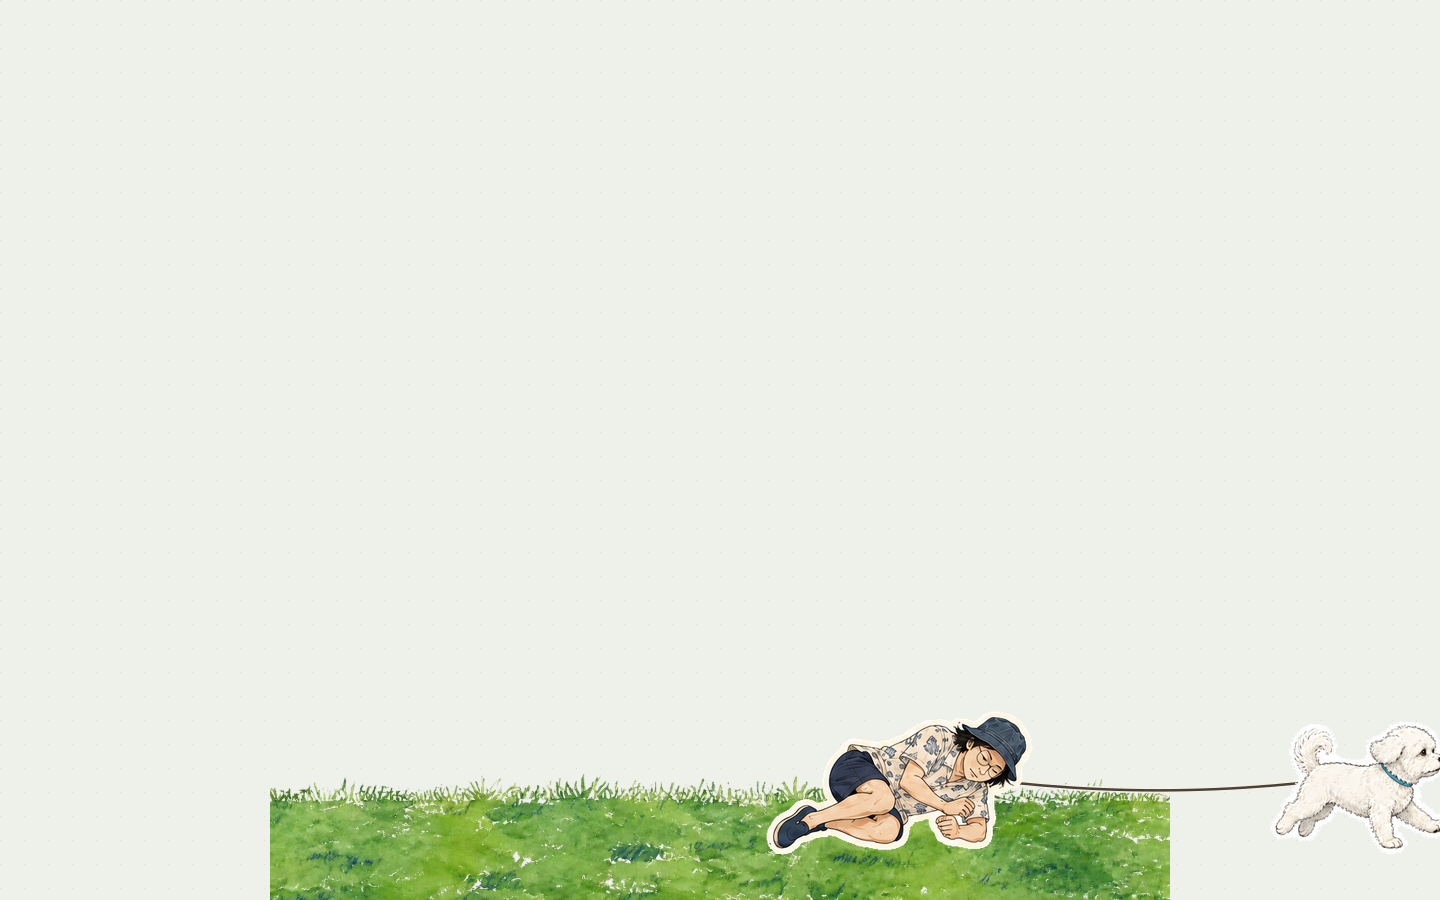
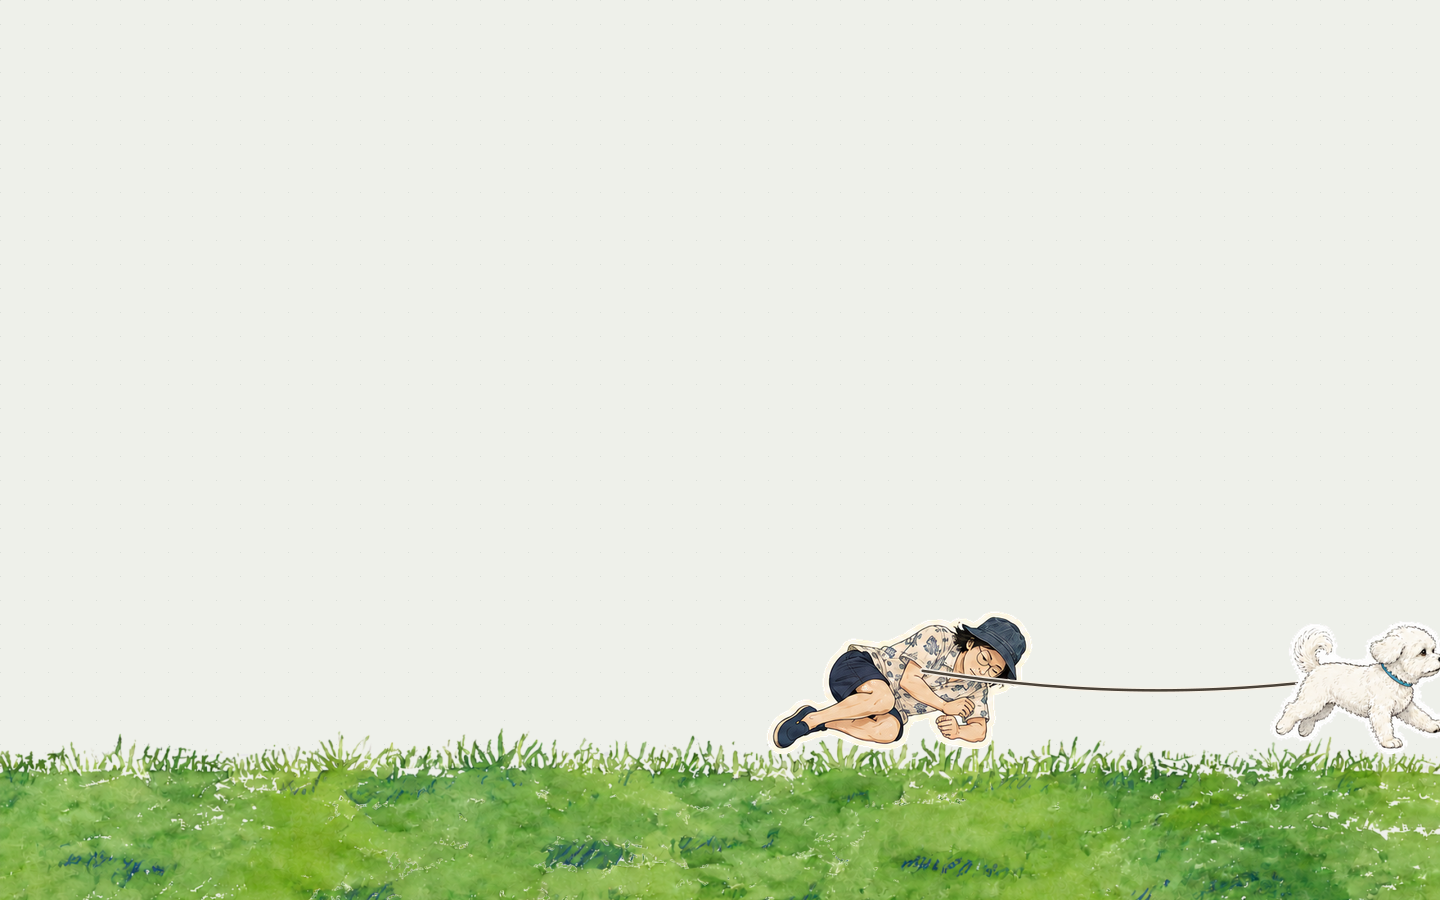
docs(intro): D-122 CP1 批准；球先于嘉乐出画；桌面草地全宽三边出血
- Motion Brief 双角色 approved: true，进入 CP2 Pilot（人物先行，每角色首轮最多 3 条）
- concept-contract 时间线新增 0.60-0.74 球滚出右界区间
- 桌面 K0-K4 以全宽草地重合成：顶边 y≈684（24% 视口高），地面线 y≈755，与移动端一致
- AGENTS.md / README / PRD / 计划进度表同步至 CP2

Changed region(s): [[0.0, 0.6844, 1.0, 1.0]]

diff --git a/docs/project/decision-log.md b/docs/project/decision-log.md
@@ -1,6 +1,6 @@
 # baozi.space V2 · 决策记录
 
-**最后更新：** 2026-08-19
+**最后更新：** 2026-08-31
 
 **规则：** 这里只记录已经确认、会约束后续工作的决策；想法和待讨论项放在 PRD 的 Open Questions 中。
 
@@ -1145,6 +1145,14 @@
 - **覆盖关系：** 覆盖 D-116 的「开场为 5–7 秒预渲染视频正常向前播放」与 D-120 的 Seedance 整屏生成输入；D-116 的 Home v2 静态首屏基线、Rive / 16 方位回退边界与「不引入 Three.js」继续有效。CP0 已冻结的 Home v2 角色区域、位置、尺寸与两角色关系保持不变。
 - **受影响文档：** `docs/project/decision-log.md`（本条）、`docs/design/baozi-space-design-spec.md`（顶部生产方向、0.1、第 7 章、第 16 章）、`baozi-space-prd.md`（0.3、4.1、4.2）、`README.md`、`AGENTS.md`（Current Scope）、根目录混合动画设计与检查点文档（标记为历史并指向 oil-motion 计划）、`docs/animation/oil-motion/`（新建 Concept Contract、Motion Brief 模板与素材目录说明）、`docs/legacy/d-105-home.md`（补充历史归档）。
 - **待办：** 本决策只完成 CP0.5 文档同步；CP1 关键帧 / Identity Bible、CP2 Seedance Pilot 与后续运行时按《Oil Motion 项目管理计划》逐 Checkpoint 放行，不提前生成素材或修改 `src` 运行时代码。
+
+### D-122 · CP1 批准、球先于嘉乐出画与桌面草地全宽
+
+- **状态：** Accepted（2026-08-31，依据包子对 CP1 草案评审的三项确认）
+- **CP1 批准：** `design-assets/intro/oil-motion/source/` 下的 Identity Bible（person / jiale）、K0–K4 双视口关键帧、Motion Brief（`approved: true`）与 Seedance Prompt v1 全部通过评审，进入 CP2 Pilot；人物 Pilot 先行，每角色首轮最多 3 条候选。
+- **球退出时机：** 球在动作全程领先嘉乐，先于嘉乐滚出右界（嘉乐追球出画）；`concept-contract.yaml` 时间线新增 0.60–0.74「球滚出右界」区间。
+- **桌面草地全宽：** 桌面草地由居中条带改为全宽、左右与底边三边出血、顶边约视口高 24%（900px 视口 ≈ y684），与移动端冻结首帧的全宽草地一致；角色地面线在草叶顶边下约 70px（桌面 ≈ y755）。理由：横穿叙事要求草地延伸到画框外，角色左进右出不踩白纸；点阵纸仍占上方约 75% 保持主体地位。最终草地几何在 CP3 静态层实现时按本决策冻结。
+- **受影响文档：** `docs/animation/oil-motion/concept-contract.yaml`（timeline 新增球出画区间）、`design-assets/intro/oil-motion/source/motion-brief.yaml`（双角色 approved）、`design-assets/intro/oil-motion/source/keyframes/`（桌面 K0–K4 以全宽草地重合成）、`AGENTS.md`、`README.md`、`baozi-space-prd.md`（阶段状态）、oil-motion 计划（当前进度表）。
 
 ## 变更规则
 

diff --git a/AGENTS.md b/AGENTS.md
@@ -12,7 +12,7 @@
 
 1. `docs/design/baozi-space-design-spec.md` — v2.1 全站设计事实来源；
 2. `baozi-space-prd.md` — 产品目标、信息需求、内容责任和发布门禁；
-3. `docs/project/decision-log.md` — 已确认决策，最新 D-121；
+3. `docs/project/decision-log.md` — 已确认决策，最新 D-122；
 4. 根目录 `2026-08-21-baozi-space-oil-motion-project-plan.md` 与 `docs/animation/oil-motion/` 契约 — 启动页当前 CP0.5–CP7 路线；
 5. 根目录 `2026-08-18-baozi-space-hybrid-animation-design.md` 与 `2026-08-18-baozi-space-hybrid-animation-checkpoints.md`（历史）、`docs/animation/intro-shot-list.md`、`docs/plans/2026-08-13-v2.1-project-restructure.md`、当前阶段计划和 `docs/intro/` 契约。
 
@@ -24,11 +24,11 @@
 
 ## Current Scope
 
-D-121 已于 2026-08-24 确认；当前阶段为 oil-motion CP0.5：架构与文档同步。
+D-122 已于 2026-08-31 确认 CP1 交付（Identity Bible、K0–K4 双视口关键帧、Motion Brief、Seedance Prompt v1），并细化球先于嘉乐出画与桌面草地全宽；当前阶段为 oil-motion CP2：Seedance 动作 Pilot。
 
 - 当前 `/` 仍是 D-105 数字手账回滚基线；`/lab/intro` 仍是 D-115 动作参考；Home v2 CP0 静态首屏已批准（D-118）；
 - 启动页改为 oil-motion 帧映射：点阵纸、暖白纸、草地由网页静态层提供，Seedance 只生成角色语义动作，程序控制横向几何与牵引绳；
-- CP0.5 只允许同步文档、固定 oil-motion 上游 commit、建立 Concept Contract 与 Motion Brief 模板。不得生成 Seedance 动作、制作图集、修改网站动画、迁移内容、删除旧路由、制作冬季素材或部署 Cloudflare；WebGL / Canvas 仍为停止条件，不得静默引入。
+- CP2 由包子按批准的 Motion Brief 与 Seedance Prompt 执行 Pilot 生成：人物先行，每角色首轮最多 3 条候选，只生成纯色键背景上的角色动作。Harness 不得提前制作图集、修改网站动画、迁移内容、删除旧路由、制作冬季素材或部署 Cloudflare；WebGL / Canvas 仍为停止条件，不得静默引入。
 
 ## Architecture States
 

diff --git a/2026-08-21-baozi-space-oil-motion-project-plan.md b/2026-08-21-baozi-space-oil-motion-project-plan.md
@@ -1,7 +1,7 @@
 # baozi.space 启动页 Oil Motion 项目管理计划
 
 > 版本：1.0  
-> 状态：执行中，当前阶段 CP0.5  
+> 状态：执行中，当前阶段 CP2（CP1 已于 D-122 批准）
 > 项目负责人 / 最终批准：包子  
 > 项目规划、Prompt 与视觉门禁：Codex  
 > 工程实施与自动化：Harness  
@@ -74,8 +74,9 @@
 | CP0 Home v2 静态首屏 | 已通过 | 桌面 1440×900 与移动 390×844 已批准 |
 | oil-motion 方案评估 | 已完成 | 确认采用其生产和输入映射方法 |
 | 旧 Seedance 三版成片 | 已拒收 | 仅保留为草地污染、方向错误等失败样本 |
-| D-121 文档同步 | 已完成 | CP0.5 架构与文档同步已落地，待评审 |
-| 新角色动作 Pilot | 未开始 | CP1 关键帧通过后启动 |
+| D-121 文档同步 | 已通过 | CP0.5 出口评审 2026-08-31 通过：单一路线、历史标记、WebGL 停止条件 |
+| CP1 关键帧与 Identity Bible | 已批准 | D-122（2026-08-31）：双角色 Bible、K0–K4 双视口、Motion Brief、Prompt v1 |
+| 新角色动作 Pilot | 待执行 | CP2：包子按批准 Prompt 生成，人物先行，每角色首轮最多 3 条候选 |
 
 **关键路径：** D-121 → Identity Bible / K0–K4 → 人物 Pilot → Alpha Atlas 预算 → 正式素材 → 运行时 → 五视口 QA → 发布。
 

diff --git a/README.md b/README.md
@@ -73,11 +73,11 @@ tests/                    # A0-H / A1 接入 Vitest 与 Playwright
 
 ## 当前阶段
 
-D-121 已把启动页开场从「整屏 Seedance 视频」改为 oil-motion 帧映射方案，当前执行 CP0.5：架构与文档同步。
+D-121 已把启动页开场从「整屏 Seedance 视频」改为 oil-motion 帧映射方案；CP1 关键帧与 Identity Bible 已批准（D-122），当前进入 CP2 Seedance 动作 Pilot。
 
 - 点阵纸、暖白大纸与草地由网页静态层提供；Seedance 2.5 只在纯色键背景上生成角色语义动作；
 - oil-motion 固定到提交 `a5a384c804183d69529a85d2dcf84a7cfc99f7e4`；首选 alpha-atlas + DOM/CSS Sprite，WebGL 为停止条件；
-- 关键帧 K0–K4 与 Identity Bible 确认前，不生成 Seedance 动作、不制作图集；
+- CP1 关键帧 K0–K4、Identity Bible、Motion Brief 与 Seedance Prompt 已批准（D-122）；CP2 只生成纯色键背景上的角色动作候选，不制作图集、不改运行时；
 - Home v2 CP0 已批准的桌面 1440×900 / 移动 390×844 静态首屏保持不变。
 
 后续按《baozi.space 启动页 Oil Motion 项目管理计划》的 CP1–CP7 逐 Checkpoint 放行；不得提前生成素材、修改运行时或制作 Rive。

diff --git a/baozi-space-prd.md b/baozi-space-prd.md
@@ -58,7 +58,7 @@
 |---|---|
 | 技术骨架 | Astro 5 静态站可构建；当前 `/` 仍是 D-105 回滚基线 |
 | Home v2 | CP0 桌面 1440×900 / 移动 390×844 静态首屏已批准（D-118），角色区域已冻结 |
-| 启动页开场 | D-121 已确认 oil-motion 帧映射方向；CP0.5 架构与文档同步，关键帧确认前不生成 Seedance 动作、不制作图集 |
+| 启动页开场 | D-121 oil-motion 帧映射；CP1 关键帧 / Identity Bible / Motion Brief 已批准（D-122），当前 CP2 Seedance Pilot |
 | A1 `/lab/intro` | D-115 滚动 Sprite 实验已完成并保留为动作参考，不再是新开场方向 |
 | 目标 IA | 五个一级入口已确认；内容与路由迁移尚未实施 |
 | 用户正式内容 | 尚未完整批准，不满足生产发布门禁 |
